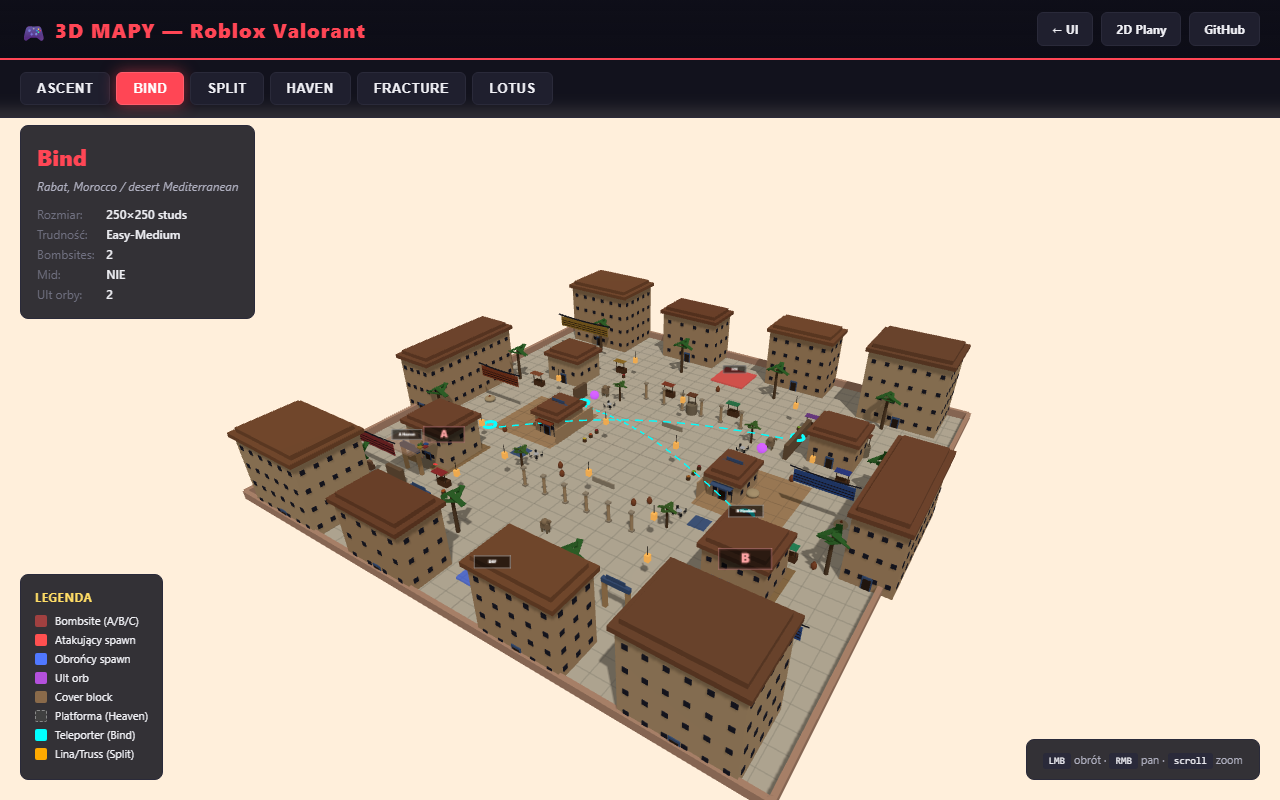
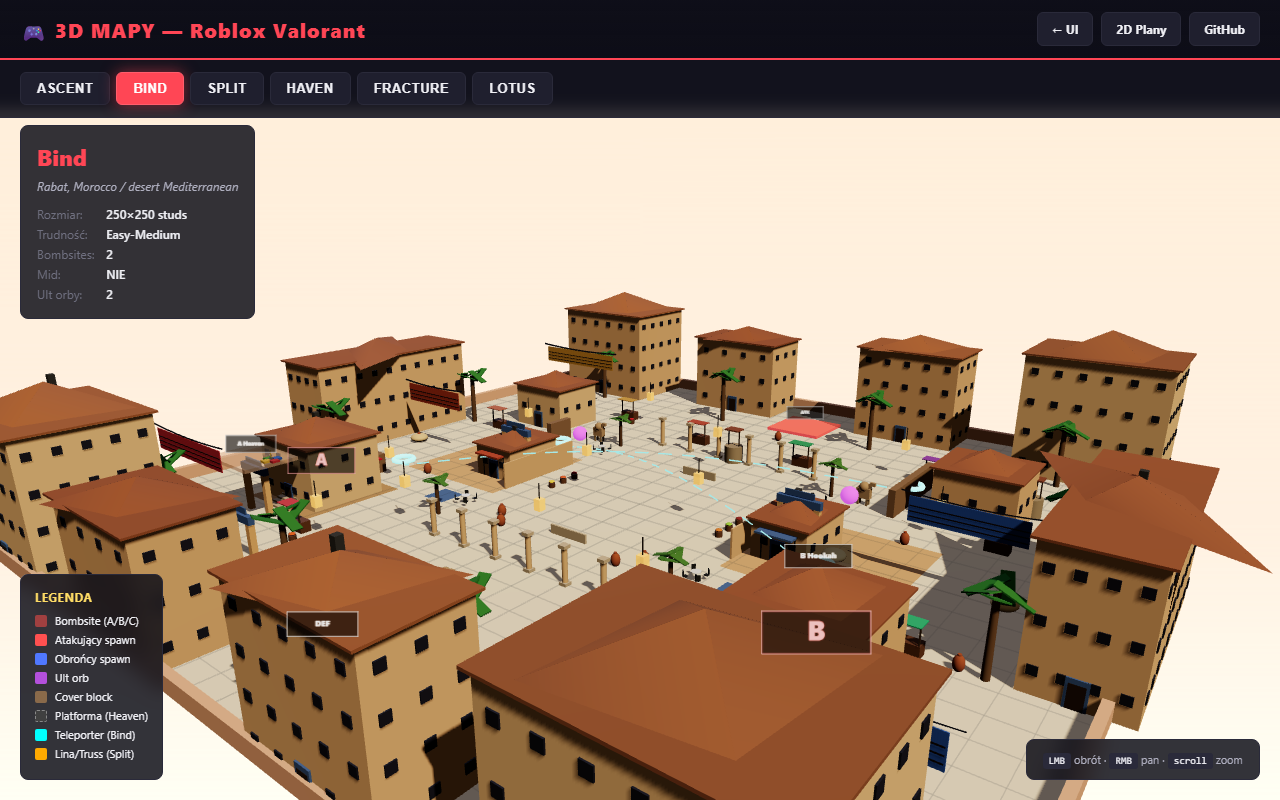
Cinematic visual upgrade — pyramid roofs + low camera + skybox gradient
User feedback: "nie jest tak atrakcejny" (not attractive enough). Maps looked
like LEGO boxes — fixed with hero-shot cinematography and architectural detail.

VISUAL CHANGES:
- Pyramid/hip roofs (CylinderGeometry with 4 sides) replace flat box roofs.
  Now Italian villas, Moroccan houses, Bhutan monasteries actually look like
  buildings instead of square cakes. Random chimneys on 35% of buildings.
- Gradient skybox via CanvasTexture (top sky color → lighter bottom blend)
  visible in background. Each map's sky atmosphere is now part of the shot.
- Cinematic camera: lower angle (maxDim * 0.35 height instead of 0.7),
  closer in, FOV 45° (was 55°). Target shifted to y=15 to look slightly up.
  Creates "hero shot" perspective revealing depth and verticality.
- ACES Filmic tone mapping + sRGB color space + exposure 1.15 for
  cinematic color grading.
- HemisphereLight ambient (sky→ground gradient) instead of flat AmbientLight.
- Sun intensity 2.4 (was 1.1) with 4K shadow map + shadow bias + radius for
  soft edges. Sun color tinted by map's sky theme.
- Rim/back light (cool blue) for separation against sky.
- Atmospheric fog matched to sky bottom color.

Result: Split looks like neon Tokyo at night with skyscrapers towering above
viewer. Ascent looks like a Tuscan village seen from a balcony. Each map has
distinct atmosphere matching its theme color.

diff --git a/presentation/maps3d.html b/presentation/maps3d.html
@@ -1077,40 +1077,50 @@ const THEMES = {
 
 const rgbColor = (rgb) => new THREE.Color(rgb[0]/255, rgb[1]/255, rgb[2]/255);
 
-// ===== SCENE SETUP =====
+// ===== SCENE SETUP — CINEMATIC =====
 const container = document.getElementById('canvas-container');
 const renderer = new THREE.WebGLRenderer({ antialias: true });
 renderer.setPixelRatio(window.devicePixelRatio);
 renderer.setSize(window.innerWidth, window.innerHeight - 110);
 renderer.shadowMap.enabled = true;
 renderer.shadowMap.type = THREE.PCFSoftShadowMap;
+// Tone mapping for cinematic look
+renderer.toneMapping = THREE.ACESFilmicToneMapping;
+renderer.toneMappingExposure = 1.15;
+renderer.outputColorSpace = THREE.SRGBColorSpace;
 container.appendChild(renderer.domElement);
 
 const scene = new THREE.Scene();
-const camera = new THREE.PerspectiveCamera(55, window.innerWidth / (window.innerHeight - 110), 1, 2000);
-camera.position.set(150, 200, 250);
+const camera = new THREE.PerspectiveCamera(45, window.innerWidth / (window.innerHeight - 110), 1, 3000);
+camera.position.set(150, 80, 250);
 
 const controls = new OrbitControls(camera, renderer.domElement);
 controls.enableDamping = true;
 controls.dampingFactor = 0.08;
-controls.maxPolarAngle = Math.PI / 2.05; // don't go below ground
-controls.minDistance = 50;
+controls.maxPolarAngle = Math.PI / 2.02; // tilt up almost to horizon
+controls.minDistance = 30;
 controls.maxDistance = 800;
 
-// Lights
-const ambient = new THREE.AmbientLight(0xffffff, 0.55);
+// Lights — hero shot setup
+const ambient = new THREE.HemisphereLight(0xffdcb4, 0x504030, 0.45);
 scene.add(ambient);
-const sun = new THREE.DirectionalLight(0xffffff, 1.1);
-sun.position.set(100, 250, 100);
+const sun = new THREE.DirectionalLight(0xfff0d0, 2.4);
+sun.position.set(180, 220, 80);
 sun.castShadow = true;
-sun.shadow.mapSize.set(2048, 2048);
-sun.shadow.camera.left = -250;
-sun.shadow.camera.right = 250;
-sun.shadow.camera.top = 250;
-sun.shadow.camera.bottom = -250;
+sun.shadow.mapSize.set(4096, 4096);
+sun.shadow.camera.left = -300;
+sun.shadow.camera.right = 300;
+sun.shadow.camera.top = 300;
+sun.shadow.camera.bottom = -300;
 sun.shadow.camera.near = 0.5;
-sun.shadow.camera.far = 600;
+sun.shadow.camera.far = 700;
+sun.shadow.bias = -0.0003;
+sun.shadow.radius = 4;
 scene.add(sun);
+// Rim/back light for separation
+const rim = new THREE.DirectionalLight(0xb4c8ff, 0.5);
+rim.position.set(-150, 100, -100);
+scene.add(rim);
 
 // ===== TEXT LABEL via CanvasTexture =====
 function makeLabel(text, color = '#ffffff', size = 40) {
@@ -1563,14 +1573,29 @@ function buildBuilding(b) {
   const body = makeBox(w, h, d, b.color, { roughness: 0.85 });
   body.position.set(b.pos[0], h / 2, b.pos[2]);
   g.add(body);
-  // Sloped roof (slightly larger flat block)
-  const roof = makeBox(w + 3, 2, d + 3, b.roofColor || 0x644632, { roughness: 0.9 });
-  roof.position.set(b.pos[0], h + 1, b.pos[2]);
+  // Sloped roof — pyramidal/hip roof (looks like real building, not LEGO)
+  // Flat lip at top of walls
+  const eave = makeBox(w + 2, 0.5, d + 2, (b.roofColor || 0x644632), { roughness: 0.9 });
+  eave.position.set(b.pos[0], h + 0.25, b.pos[2]);
+  g.add(eave);
+  // Pyramid roof using cone-like geometry (4-sided)
+  const roofHeight = Math.min(w, d) * 0.25;
+  const roofGeo = new THREE.CylinderGeometry(0.1, Math.max(w, d) * 0.72, roofHeight, 4, 1);
+  const roofMat = new THREE.MeshStandardMaterial({ color: b.roofColor || 0x644632, roughness: 0.85 });
+  const roof = new THREE.Mesh(roofGeo, roofMat);
+  roof.position.set(b.pos[0], h + roofHeight / 2, b.pos[2]);
+  roof.rotation.y = Math.PI / 4;
+  // Scale to match rectangular footprint
+  roof.scale.set((w + 2) / (Math.max(w, d) * 1.414), 1, (d + 2) / (Math.max(w, d) * 1.414));
+  roof.castShadow = true;
+  roof.receiveShadow = true;
   g.add(roof);
-  // Roof slope detail (pyramidal cap on top)
-  const cap = makeBox(w - 2, 2, d - 2, b.roofColor || 0x644632, { roughness: 0.9 });
-  cap.position.set(b.pos[0], h + 3, b.pos[2]);
-  g.add(cap);
+  // Chimney (random 30% chance)
+  if (Math.random() < 0.35) {
+    const chimney = makeBox(1.5, 4, 1.5, 0x404040, { roughness: 0.95 });
+    chimney.position.set(b.pos[0] + (Math.random() - 0.5) * w * 0.4, h + roofHeight - 1, b.pos[2] + (Math.random() - 0.5) * d * 0.4);
+    g.add(chimney);
+  }
   // Windows — grid pattern on front face
   const nWindows = Math.max(2, b.windows || 4);
   const winRows = Math.floor(h / 8);
@@ -2609,8 +2634,26 @@ function buildMap(name) {
 
   const map = MAPS[name];
   const group = new THREE.Group();
-  scene.background = rgbColor(map.SkyColor);
-  scene.fog = new THREE.Fog(scene.background, 400, 1200);
+  // Gradient skybox (large sphere with vertical color blend)
+  const skyTopColor = rgbColor(map.SkyColor);
+  const skyBotColor = new THREE.Color(skyTopColor.r * 0.5 + 0.5, skyTopColor.g * 0.5 + 0.45, skyTopColor.b * 0.5 + 0.4);
+  const skyCanvas = document.createElement('canvas');
+  skyCanvas.width = 2; skyCanvas.height = 256;
+  const skyCtx = skyCanvas.getContext('2d');
+  const skyGrad = skyCtx.createLinearGradient(0, 0, 0, 256);
+  skyGrad.addColorStop(0, '#' + skyTopColor.getHexString());
+  skyGrad.addColorStop(0.6, '#' + skyBotColor.getHexString());
+  skyGrad.addColorStop(1, '#' + skyBotColor.clone().multiplyScalar(1.2).getHexString());
+  skyCtx.fillStyle = skyGrad;
+  skyCtx.fillRect(0, 0, 2, 256);
+  const skyTex = new THREE.CanvasTexture(skyCanvas);
+  skyTex.colorSpace = THREE.SRGBColorSpace;
+  scene.background = skyTex;
+  scene.fog = new THREE.Fog(skyBotColor, 300, 1400);
+  // Update sun color tint based on map theme
+  sun.color.copy(skyTopColor).multiplyScalar(1.0).lerp(new THREE.Color(0xffeec8), 0.5);
+  ambient.color.copy(skyTopColor).multiplyScalar(0.6);
+  ambient.groundColor.set(0x504030);
 
   // FLOOR (slightly larger than dimensions)
   const floorGeo = new THREE.PlaneGeometry(map.Dimensions.X, map.Dimensions.Z);
@@ -2872,8 +2915,9 @@ function buildMap(name) {
 
   // Reset camera to view the map fully
   const maxDim = Math.max(map.Dimensions.X, map.Dimensions.Z);
-  camera.position.set(maxDim * 0.6, maxDim * 0.7, maxDim * 0.9);
-  controls.target.set(0, 0, 0);
+  // Cinematic hero-shot angle (lower + closer to see depth)
+  camera.position.set(maxDim * 0.55, maxDim * 0.35, maxDim * 0.7);
+  controls.target.set(0, 15, 0);
   controls.update();
 }
 
